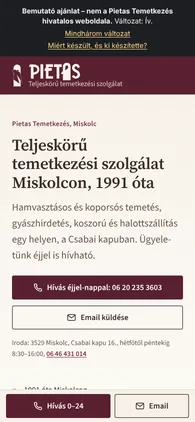
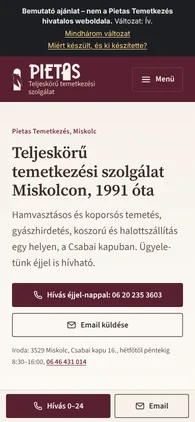
Mobilon is van menü: „Menü” gomb a fejlécben (JS nélkül)
- 1100 px alatt a fejlécben „Menü” gomb (hamburgerikon + felirat), <details>-szel,
  a szakaszlista a fejléc alá nyílik, 48 px-es sorokkal; asztalon a linksor marad
- v1: a lenyitott panel egy árnyalattal világosabb, hogy elváljon a nyitóképtől
- v1: 360 px alatt kisebb az ügyeleti szám, így 320 px-en sincs vízszintes görgetés
- a választó mobil előnézeti képei és a mobil képernyőképek újragenerálva
- Lighthouse mobil változatlan: 99 / 100 / 100, kontraszt rendben

Claude-Session: https://claude.ai/code/session_01NSyW5mihJAss9y1HoRHRdS

diff --git a/site/assets/alap.css b/site/assets/alap.css
@@ -84,24 +84,49 @@ a.tel { font-family: var(--betu-szam); white-space: nowrap; font-weight: 600; }
 .bemutato-sav a { color: #ffd88a; }
 
 /* Fejléc: logó bal felül, menü felül, ügyelet jobbra */
-.fejlec { background: var(--hatter); color: var(--szoveg); border-bottom: 1px solid var(--keret); }
-.fejlec-sor { display: flex; align-items: center; gap: var(--t-5); min-height: 72px; padding-block: var(--t-3); }
+.fejlec { position: relative; z-index: 30; background: var(--hatter); color: var(--szoveg); border-bottom: 1px solid var(--keret); }
+.fejlec-sor { display: flex; align-items: center; gap: var(--t-3) var(--t-5); min-height: 72px; padding-block: var(--t-3); }
 .marka { display: inline-flex; align-items: center; gap: var(--t-3); color: inherit; text-decoration: none; margin-right: auto; }
 .marka-ikon { width: 23px; height: 48px; flex: none; color: var(--marka-szin, currentColor); }
 .marka-szoveg { display: flex; flex-direction: column; line-height: 1.1; }
 .marka-nev { font-family: var(--betu-cim); font-size: var(--m-h3); }
 .marka-al { font-size: var(--m-kicsi); color: var(--halvany); }
-.fejlec nav { display: none; }
-.fejlec nav ul { list-style: none; display: flex; gap: var(--t-1); margin: 0; padding: 0; }
-.fejlec nav li { margin: 0; }
-.fejlec nav a { display: block; padding: var(--t-2) var(--t-3); color: inherit; text-decoration: none; border-bottom: 2px solid transparent; }
-.fejlec nav a:hover { border-bottom-color: var(--diszito); }
+/* Menü minden szélességen: széles kijelzőn linksor, alatta „Menü” gomb (JS nélkül, <details>) */
+.fomenu { order: 2; }
+.menu-sor { display: none; list-style: none; gap: var(--t-1); margin: 0; padding: 0; }
+.menu-sor li { margin: 0; }
+.menu-sor a { display: block; padding: var(--t-2) var(--t-3); color: inherit; text-decoration: none; border-bottom: 2px solid transparent; }
+.menu-sor a:hover { border-bottom-color: var(--diszito); }
+.menu-mobil summary {
+  display: inline-flex; align-items: center; gap: var(--t-2);
+  min-height: 48px; padding: var(--t-2) var(--t-4);
+  border: 1px solid var(--keret); border-radius: var(--lekerekites-kicsi);
+  list-style: none; cursor: pointer; font-weight: 600; color: inherit; user-select: none;
+}
+.menu-mobil summary::-webkit-details-marker { display: none; }
+.menu-mobil { flex: none; }
+.menu-mobil summary svg { flex: none; width: 22px; height: 22px; }
+.menu-mobil[open] summary { background: var(--felulet); }
+.menu-panel {
+  position: absolute; left: 0; right: 0; top: 100%;
+  margin: 0; padding: var(--t-2) max(var(--t-5), (100% - var(--tartalom)) / 2) var(--t-4);
+  list-style: none; background: var(--hatter); color: var(--szoveg);
+  border-bottom: 1px solid var(--keret); box-shadow: 0 16px 24px rgba(0, 0, 0, .14);
+}
+.menu-panel li { margin: 0; max-width: none; border-top: 1px solid var(--keret); }
+.menu-panel li:first-child { border-top: 0; }
+.menu-panel a { display: flex; align-items: center; min-height: 48px; padding-block: var(--t-2); color: inherit; text-decoration: none; font-size: var(--m-bevezeto); }
+.menu-panel a:hover { text-decoration: underline; }
+@media (min-width: 1100px) {
+  .fomenu { order: 0; }
+  .menu-sor { display: flex; }
+  .menu-mobil { display: none; }
+}
 .fejlec-tel { display: none; align-items: center; gap: var(--t-2); color: inherit; text-decoration: none; font-weight: 600; white-space: nowrap; }
 .fejlec-tel svg { width: 20px; height: 20px; }
 .fejlec-tel > span { font-family: var(--betu-szam); }
 .fejlec-tel-cimke { font-family: var(--betu-szoveg); font-weight: 400; color: var(--halvany); }
 @media (min-width: 640px) { .fejlec-tel { display: inline-flex; } }
-@media (min-width: 1100px) { .fejlec nav { display: block; } }
 
 /* Gombok: egy fő gomb (kiemelés), a többi csendesebb */
 .gombok { display: flex; flex-direction: column; gap: var(--t-3); margin: var(--t-5) 0 var(--t-4); }

diff --git a/site/v2/index.html b/site/v2/index.html
@@ -29,6 +29,7 @@
     <symbol id="i-tel" viewBox="0 0 24 24"><path fill="none" stroke="currentColor" stroke-width="1.8" stroke-linecap="round" stroke-linejoin="round" d="M5 3.5h3.2l1.6 4.3-2 1.3a12 12 0 0 0 7.1 7.1l1.3-2 4.3 1.6V19a1.8 1.8 0 0 1-1.9 1.8A16.6 16.6 0 0 1 3.2 5.4 1.8 1.8 0 0 1 5 3.5Z"/></symbol>
     <symbol id="i-level" viewBox="0 0 24 24"><g fill="none" stroke="currentColor" stroke-width="1.8" stroke-linecap="round" stroke-linejoin="round"><rect x="3" y="5" width="18" height="14" rx="2"/><path d="m4 7 8 6 8-6"/></g></symbol>
     <symbol id="i-hely" viewBox="0 0 24 24"><g fill="none" stroke="currentColor" stroke-width="1.7" stroke-linecap="round" stroke-linejoin="round"><path d="M12 21s-7-6.2-7-11.5a7 7 0 0 1 14 0C19 14.8 12 21 12 21Z"/><circle cx="12" cy="9.5" r="2.5"/></g></symbol>
+    <symbol id="i-menu" viewBox="0 0 24 24"><path fill="none" stroke="currentColor" stroke-width="2" stroke-linecap="round" d="M4 7h16M4 12h16M4 17h16"/></symbol>
     <symbol id="i-ora" viewBox="0 0 24 24"><g fill="none" stroke="currentColor" stroke-width="1.7" stroke-linecap="round" stroke-linejoin="round"><circle cx="12" cy="12" r="8.5"/><path d="M12 7.5V12l3 2"/></g></symbol>
     <symbol id="i-mecses" viewBox="0 0 32 40"><path class="lang-kulso" d="M16 2.5c3.2 6.2 8.2 10.6 8.2 17.6a8.2 8.2 0 0 1-16.4 0c0-7 5-11.4 8.2-17.6z"/><path class="lang-belso" d="M16 13.5c1.6 3 4.2 5 4.2 8.6a4.2 4.2 0 0 1-8.4 0c0-3.6 2.6-5.6 4.2-8.6z"/><path class="mecses-tal" d="M4.5 32.5h23c0 4-5 6.5-11.5 6.5s-11.5-2.5-11.5-6.5z"/></symbol>
   </svg>
@@ -44,13 +45,26 @@
         <svg class="marka-ikon" aria-hidden="true"><use href="#i-jel"/></svg>
         <span class="marka-szoveg" aria-hidden="true"><svg class="marka-felirat"><use href="#i-felirat"/></svg><span class="marka-al">Teljeskörű temetkezési szolgálat</span></span>
       </a>
-      <nav aria-label="Fő menü"><ul>
+      <nav class="fomenu" aria-label="Fő menü">
+        <ul class="menu-sor">
         <li><a href="#szolgaltatasok">Szolgáltatások</a></li>
         <li><a href="#teendok">Teendők</a></li>
         <li><a href="#rolunk">Rólunk</a></li>
         <li><a href="#koltsegek">Költségek</a></li>
         <li><a href="#kapcsolat">Kapcsolat</a></li>
-      </ul></nav>
+        </ul>
+        <!-- Mobilon és tableten: Menü gomb JavaScript nélkül (<details>), a lista a fejléc alá nyílik. -->
+        <details class="menu-mobil">
+          <summary><svg aria-hidden="true"><use href="#i-menu"/></svg>Menü</summary>
+          <ul class="menu-panel">
+        <li><a href="#szolgaltatasok">Szolgáltatások</a></li>
+        <li><a href="#teendok">Teendők</a></li>
+        <li><a href="#rolunk">Rólunk</a></li>
+        <li><a href="#koltsegek">Költségek</a></li>
+        <li><a href="#kapcsolat">Kapcsolat</a></li>
+          </ul>
+        </details>
+      </nav>
       <a class="fejlec-tel" href="tel:+36202353603"><svg aria-hidden="true"><use href="#i-tel"/></svg><span><span class="fejlec-tel-cimke">Ügyelet 0–24</span> 06 20 235 3603</span></a>
     </div>
   </header>

diff --git a/site/v1/index.html b/site/v1/index.html
@@ -29,6 +29,7 @@
     <symbol id="i-tel" viewBox="0 0 24 24"><path fill="none" stroke="currentColor" stroke-width="1.8" stroke-linecap="round" stroke-linejoin="round" d="M5 3.5h3.2l1.6 4.3-2 1.3a12 12 0 0 0 7.1 7.1l1.3-2 4.3 1.6V19a1.8 1.8 0 0 1-1.9 1.8A16.6 16.6 0 0 1 3.2 5.4 1.8 1.8 0 0 1 5 3.5Z"/></symbol>
     <symbol id="i-level" viewBox="0 0 24 24"><g fill="none" stroke="currentColor" stroke-width="1.8" stroke-linecap="round" stroke-linejoin="round"><rect x="3" y="5" width="18" height="14" rx="2"/><path d="m4 7 8 6 8-6"/></g></symbol>
     <symbol id="i-hely" viewBox="0 0 24 24"><g fill="none" stroke="currentColor" stroke-width="1.7" stroke-linecap="round" stroke-linejoin="round"><path d="M12 21s-7-6.2-7-11.5a7 7 0 0 1 14 0C19 14.8 12 21 12 21Z"/><circle cx="12" cy="9.5" r="2.5"/></g></symbol>
+    <symbol id="i-menu" viewBox="0 0 24 24"><path fill="none" stroke="currentColor" stroke-width="2" stroke-linecap="round" d="M4 7h16M4 12h16M4 17h16"/></symbol>
     <symbol id="i-ora" viewBox="0 0 24 24"><g fill="none" stroke="currentColor" stroke-width="1.7" stroke-linecap="round" stroke-linejoin="round"><circle cx="12" cy="12" r="8.5"/><path d="M12 7.5V12l3 2"/></g></symbol>
     <symbol id="i-mecses" viewBox="0 0 32 40"><path class="lang-kulso" d="M16 2.5c3.2 6.2 8.2 10.6 8.2 17.6a8.2 8.2 0 0 1-16.4 0c0-7 5-11.4 8.2-17.6z"/><path class="lang-belso" d="M16 13.5c1.6 3 4.2 5 4.2 8.6a4.2 4.2 0 0 1-8.4 0c0-3.6 2.6-5.6 4.2-8.6z"/><path class="mecses-tal" d="M4.5 32.5h23c0 4-5 6.5-11.5 6.5s-11.5-2.5-11.5-6.5z"/></symbol>
   </svg>
@@ -44,13 +45,26 @@
         <svg class="marka-ikon" aria-hidden="true"><use href="#i-jel"/></svg>
         <span class="marka-szoveg"><span class="marka-nev">Pietas</span> <span class="marka-al">Temetkezés, Miskolc</span></span>
       </a>
-      <nav aria-label="Fő menü"><ul>
+      <nav class="fomenu" aria-label="Fő menü">
+        <ul class="menu-sor">
         <li><a href="#teendok">Teendők</a></li>
         <li><a href="#szolgaltatasok">Szolgáltatások</a></li>
         <li><a href="#koltsegek">Költségek</a></li>
         <li><a href="#rolunk">Rólunk</a></li>
         <li><a href="#kapcsolat">Kapcsolat</a></li>
-      </ul></nav>
+        </ul>
+        <!-- Mobilon és tableten: Menü gomb JavaScript nélkül (<details>), a lista a fejléc alá nyílik. -->
+        <details class="menu-mobil">
+          <summary><svg aria-hidden="true"><use href="#i-menu"/></svg>Menü</summary>
+          <ul class="menu-panel">
+        <li><a href="#teendok">Teendők</a></li>
+        <li><a href="#szolgaltatasok">Szolgáltatások</a></li>
+        <li><a href="#koltsegek">Költségek</a></li>
+        <li><a href="#rolunk">Rólunk</a></li>
+        <li><a href="#kapcsolat">Kapcsolat</a></li>
+          </ul>
+        </details>
+      </nav>
       <a class="fejlec-tel" href="tel:+36202353603"><svg aria-hidden="true"><use href="#i-tel"/></svg><span><span class="fejlec-tel-cimke">Ügyelet 0–24</span> 06 20 235 3603</span></a>
     </div>
   </header>

diff --git a/site/v3/index.html b/site/v3/index.html
@@ -29,6 +29,7 @@
     <symbol id="i-tel" viewBox="0 0 24 24"><path fill="none" stroke="currentColor" stroke-width="1.8" stroke-linecap="round" stroke-linejoin="round" d="M5 3.5h3.2l1.6 4.3-2 1.3a12 12 0 0 0 7.1 7.1l1.3-2 4.3 1.6V19a1.8 1.8 0 0 1-1.9 1.8A16.6 16.6 0 0 1 3.2 5.4 1.8 1.8 0 0 1 5 3.5Z"/></symbol>
     <symbol id="i-level" viewBox="0 0 24 24"><g fill="none" stroke="currentColor" stroke-width="1.8" stroke-linecap="round" stroke-linejoin="round"><rect x="3" y="5" width="18" height="14" rx="2"/><path d="m4 7 8 6 8-6"/></g></symbol>
     <symbol id="i-hely" viewBox="0 0 24 24"><g fill="none" stroke="currentColor" stroke-width="1.7" stroke-linecap="round" stroke-linejoin="round"><path d="M12 21s-7-6.2-7-11.5a7 7 0 0 1 14 0C19 14.8 12 21 12 21Z"/><circle cx="12" cy="9.5" r="2.5"/></g></symbol>
+    <symbol id="i-menu" viewBox="0 0 24 24"><path fill="none" stroke="currentColor" stroke-width="2" stroke-linecap="round" d="M4 7h16M4 12h16M4 17h16"/></symbol>
     <symbol id="i-ora" viewBox="0 0 24 24"><g fill="none" stroke="currentColor" stroke-width="1.7" stroke-linecap="round" stroke-linejoin="round"><circle cx="12" cy="12" r="8.5"/><path d="M12 7.5V12l3 2"/></g></symbol>
     <symbol id="i-mecses" viewBox="0 0 32 40"><path class="lang-kulso" d="M16 2.5c3.2 6.2 8.2 10.6 8.2 17.6a8.2 8.2 0 0 1-16.4 0c0-7 5-11.4 8.2-17.6z"/><path class="lang-belso" d="M16 13.5c1.6 3 4.2 5 4.2 8.6a4.2 4.2 0 0 1-8.4 0c0-3.6 2.6-5.6 4.2-8.6z"/><path class="mecses-tal" d="M4.5 32.5h23c0 4-5 6.5-11.5 6.5s-11.5-2.5-11.5-6.5z"/></symbol>
   </svg>
@@ -44,13 +45,26 @@
         <svg class="marka-ikon" aria-hidden="true"><use href="#i-jel"/></svg>
         <span class="marka-szoveg"><span class="marka-nev">Pietas</span> <span class="marka-al">Temetkezés, Miskolc</span></span>
       </a>
-      <nav aria-label="Fő menü"><ul>
+      <nav class="fomenu" aria-label="Fő menü">
+        <ul class="menu-sor">
         <li><a href="#teendok">Teendők</a></li>
         <li><a href="#szolgaltatasok">Szolgáltatások</a></li>
         <li><a href="#koltsegek">Költségek</a></li>
         <li><a href="#rolunk">Rólunk</a></li>
         <li><a href="#kapcsolat">Kapcsolat</a></li>
-      </ul></nav>
+        </ul>
+        <!-- Mobilon és tableten: Menü gomb JavaScript nélkül (<details>), a lista a fejléc alá nyílik. -->
+        <details class="menu-mobil">
+          <summary><svg aria-hidden="true"><use href="#i-menu"/></svg>Menü</summary>
+          <ul class="menu-panel">
+        <li><a href="#teendok">Teendők</a></li>
+        <li><a href="#szolgaltatasok">Szolgáltatások</a></li>
+        <li><a href="#koltsegek">Költségek</a></li>
+        <li><a href="#rolunk">Rólunk</a></li>
+        <li><a href="#kapcsolat">Kapcsolat</a></li>
+          </ul>
+        </details>
+      </nav>
       <a class="fejlec-tel" href="tel:+36202353603"><svg aria-hidden="true"><use href="#i-tel"/></svg><span><span class="fejlec-tel-cimke">Ügyelet 0–24</span> 06 20 235 3603</span></a>
     </div>
   </header>

diff --git a/site/assets/v1.css b/site/assets/v1.css
@@ -67,6 +67,7 @@ a.tel { font-weight: 700; }
 .tabla-cimke { margin: 0 0 var(--t-1); color: var(--halvany); }
 .tabla-szam { margin: 0 0 var(--t-5); }
 .tabla-szam a.tel { font-family: var(--betu-cim); font-weight: 400; letter-spacing: 0.02em; font-size: clamp(1.953rem, 1.5rem + 1.6vw, 2.441rem); line-height: 1.1; color: var(--link); text-decoration: none; }
+@media (max-width: 359px) { .tabla-szam a.tel { font-size: 1.563rem; } }  /* 320 px-en se lógjon ki az ügyeleti szám */
 .ugyelet-tabla dl { margin: 0; display: grid; gap: var(--t-3); border-top: 1px solid var(--keret); padding-top: var(--t-4); }
 .ugyelet-tabla dt { font-size: var(--m-kicsi); color: var(--halvany); }
 .ugyelet-tabla dd { margin: 0; }
@@ -74,3 +75,5 @@ a.tel { font-weight: 700; }
 
 .lepesek li::before { color: #2A4F45; }
 .kapcsolat { background: var(--felulet); }
+/* A lenyitott menü egy árnyalattal világosabb, hogy elváljon a sötét nyitóképtől */
+.v1 .menu-panel, .v1 .menu-mobil[open] summary { background: var(--felulet); }

diff --git a/site/assets/v3.css b/site/assets/v3.css
@@ -38,3 +38,5 @@ h2 { font-size: clamp(1.953rem, 1.5rem + 1.8vw, 2.441rem); }
 .kapcsolat { background: #E9EFEE; }
 .nyito-alcim { font-size: var(--m-h3); margin-top: var(--t-7); }
 .nyito-alcim::after { content: none; }
+.menu-panel { background: var(--felulet); }
+.menu-mobil[open] summary { background: var(--hatter); }

diff --git a/anyagok/generator.py b/anyagok/generator.py
@@ -59,6 +59,7 @@ FELIRAT, FELIRAT_ARANY = symbol("logo-pietas", "i-felirat")
 IKONOK = """<symbol id="i-tel" viewBox="0 0 24 24"><path fill="none" stroke="currentColor" stroke-width="1.8" stroke-linecap="round" stroke-linejoin="round" d="M5 3.5h3.2l1.6 4.3-2 1.3a12 12 0 0 0 7.1 7.1l1.3-2 4.3 1.6V19a1.8 1.8 0 0 1-1.9 1.8A16.6 16.6 0 0 1 3.2 5.4 1.8 1.8 0 0 1 5 3.5Z"/></symbol>
     <symbol id="i-level" viewBox="0 0 24 24"><g fill="none" stroke="currentColor" stroke-width="1.8" stroke-linecap="round" stroke-linejoin="round"><rect x="3" y="5" width="18" height="14" rx="2"/><path d="m4 7 8 6 8-6"/></g></symbol>
     <symbol id="i-hely" viewBox="0 0 24 24"><g fill="none" stroke="currentColor" stroke-width="1.7" stroke-linecap="round" stroke-linejoin="round"><path d="M12 21s-7-6.2-7-11.5a7 7 0 0 1 14 0C19 14.8 12 21 12 21Z"/><circle cx="12" cy="9.5" r="2.5"/></g></symbol>
+    <symbol id="i-menu" viewBox="0 0 24 24"><path fill="none" stroke="currentColor" stroke-width="2" stroke-linecap="round" d="M4 7h16M4 12h16M4 17h16"/></symbol>
     <symbol id="i-ora" viewBox="0 0 24 24"><g fill="none" stroke="currentColor" stroke-width="1.7" stroke-linecap="round" stroke-linejoin="round"><circle cx="12" cy="12" r="8.5"/><path d="M12 7.5V12l3 2"/></g></symbol>
     <symbol id="i-mecses" viewBox="0 0 32 40"><path class="lang-kulso" d="M16 2.5c3.2 6.2 8.2 10.6 8.2 17.6a8.2 8.2 0 0 1-16.4 0c0-7 5-11.4 8.2-17.6z"/><path class="lang-belso" d="M16 13.5c1.6 3 4.2 5 4.2 8.6a4.2 4.2 0 0 1-8.4 0c0-3.6 2.6-5.6 4.2-8.6z"/><path class="mecses-tal" d="M4.5 32.5h23c0 4-5 6.5-11.5 6.5s-11.5-2.5-11.5-6.5z"/></symbol>"""
 
@@ -431,9 +432,18 @@ def oldal(v, d):
     <div class="keret fejlec-sor">
       <!-- LOGÓ: a régi oldal logója vektorosan lekövetve (anyagok/logo/); az eredeti fájl kérendő. -->
       {marka(v)}
-      <nav aria-label="Fő menü"><ul>
+      <nav class="fomenu" aria-label="Fő menü">
+        <ul class="menu-sor">
 {nav}
-      </ul></nav>
+        </ul>
+        <!-- Mobilon és tableten: Menü gomb JavaScript nélkül (<details>), a lista a fejléc alá nyílik. -->
+        <details class="menu-mobil">
+          <summary><svg aria-hidden="true"><use href="#i-menu"/></svg>Menü</summary>
+          <ul class="menu-panel">
+{nav}
+          </ul>
+        </details>
+      </nav>
       <a class="fejlec-tel" href="{tel(UGYELET)}"><svg aria-hidden="true"><use href="#i-tel"/></svg><span><span class="fejlec-tel-cimke">Ügyelet 0–24</span> {UGYELET.replace(" ", NBSP)}</span></a>
     </div>
   </header>
